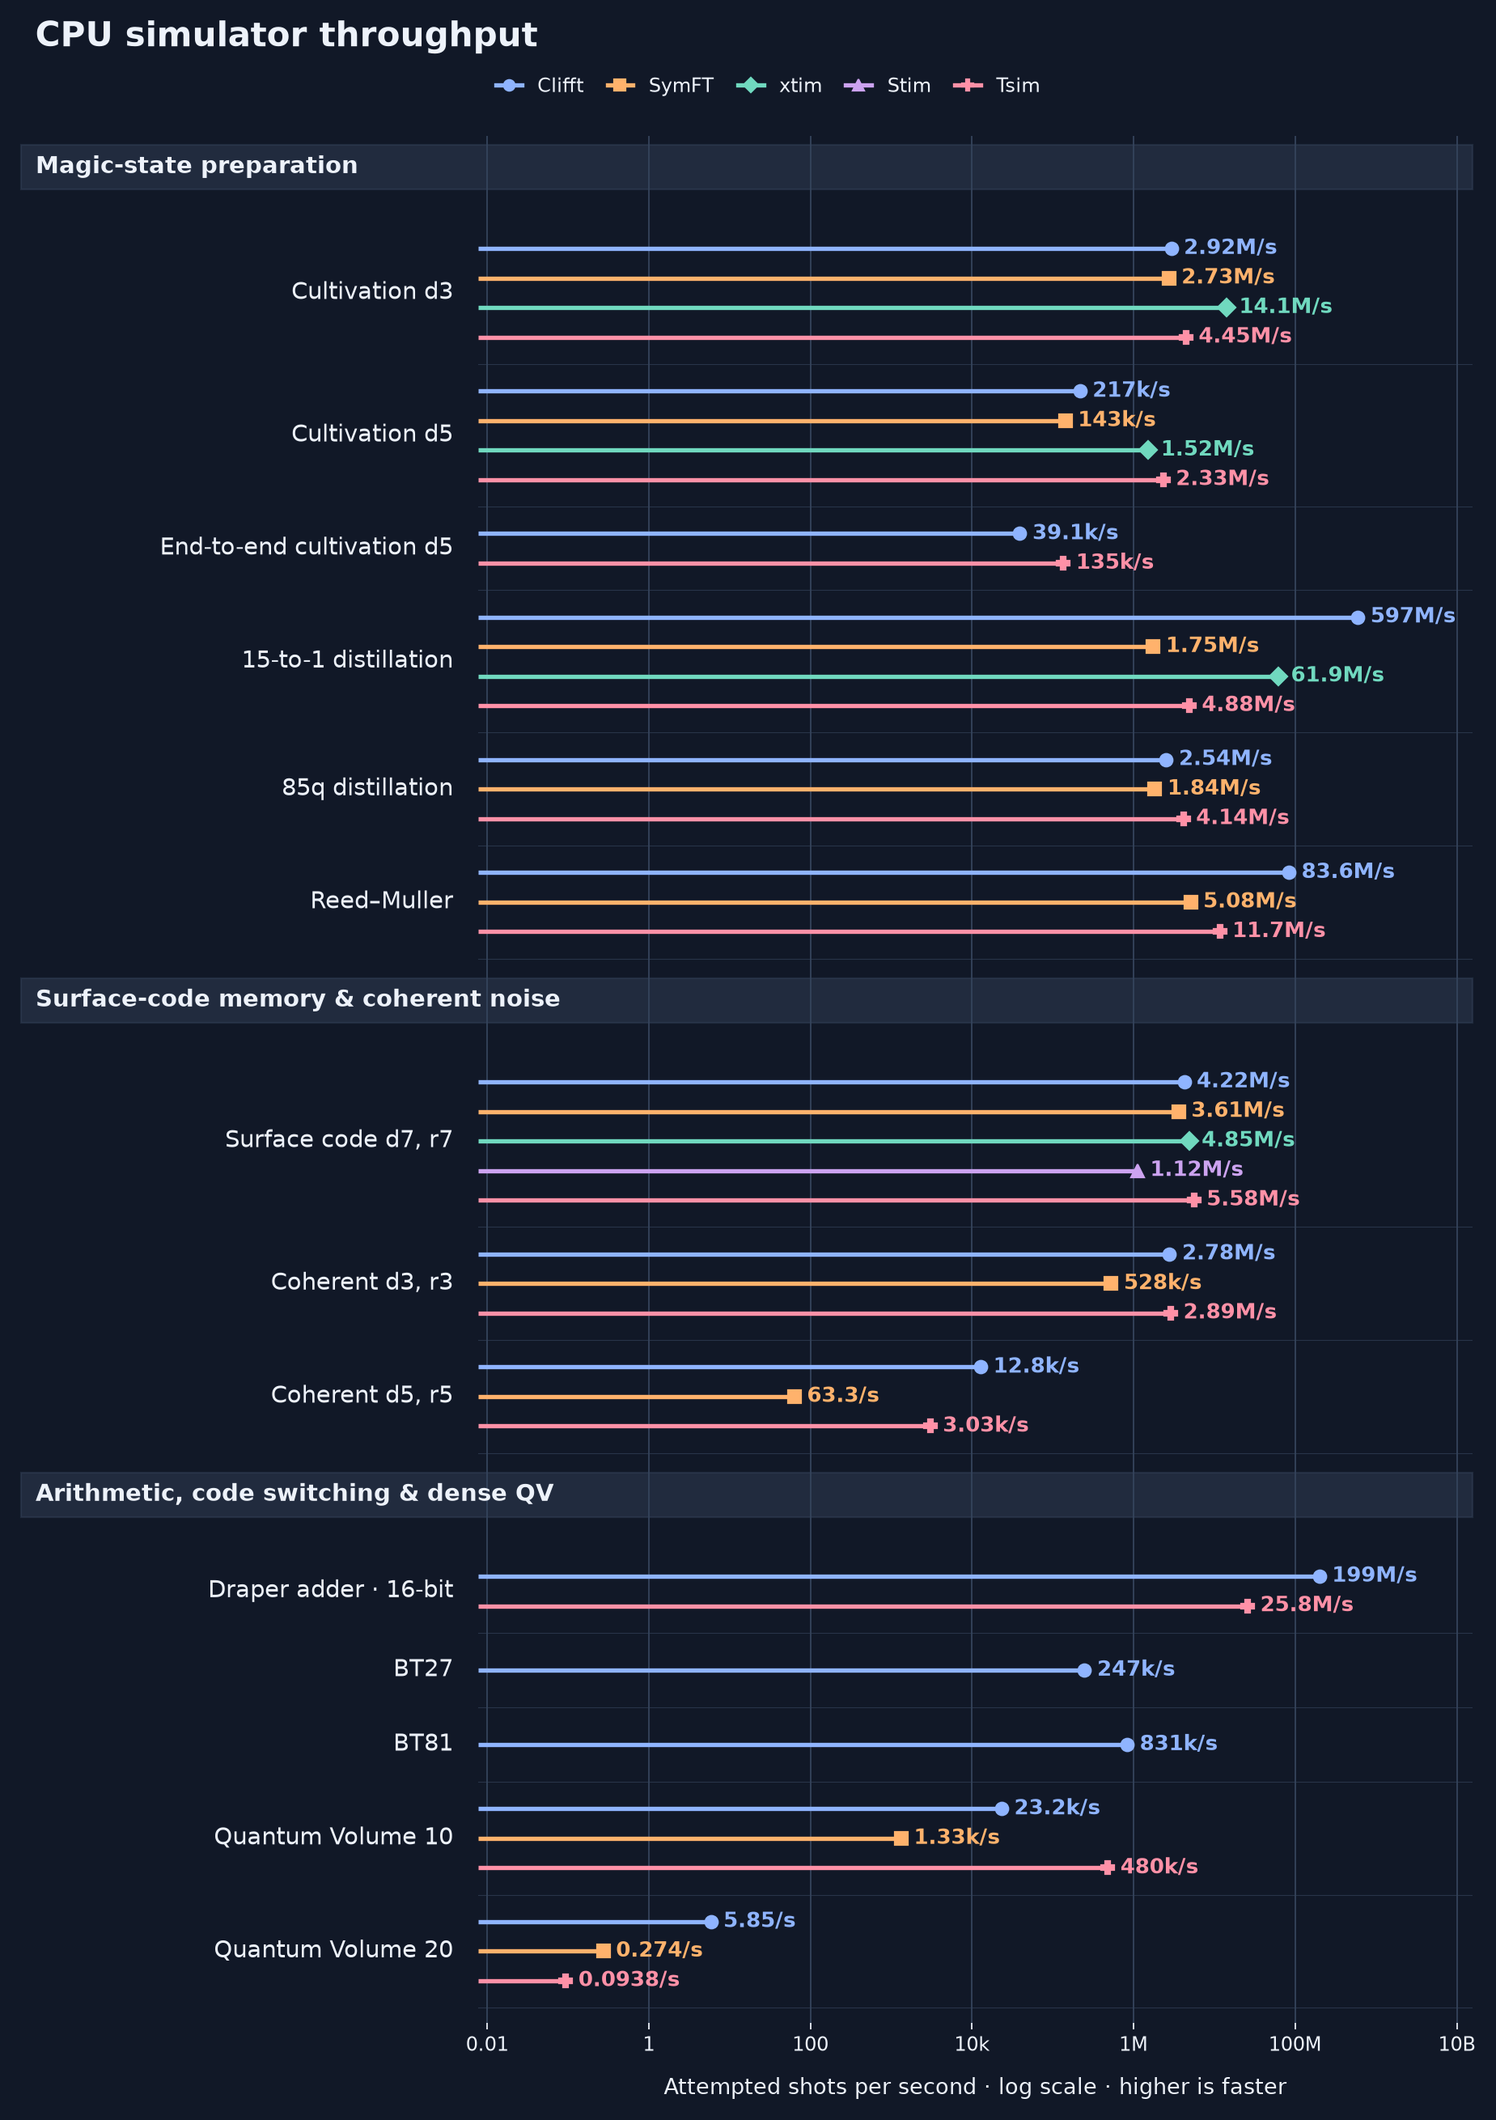
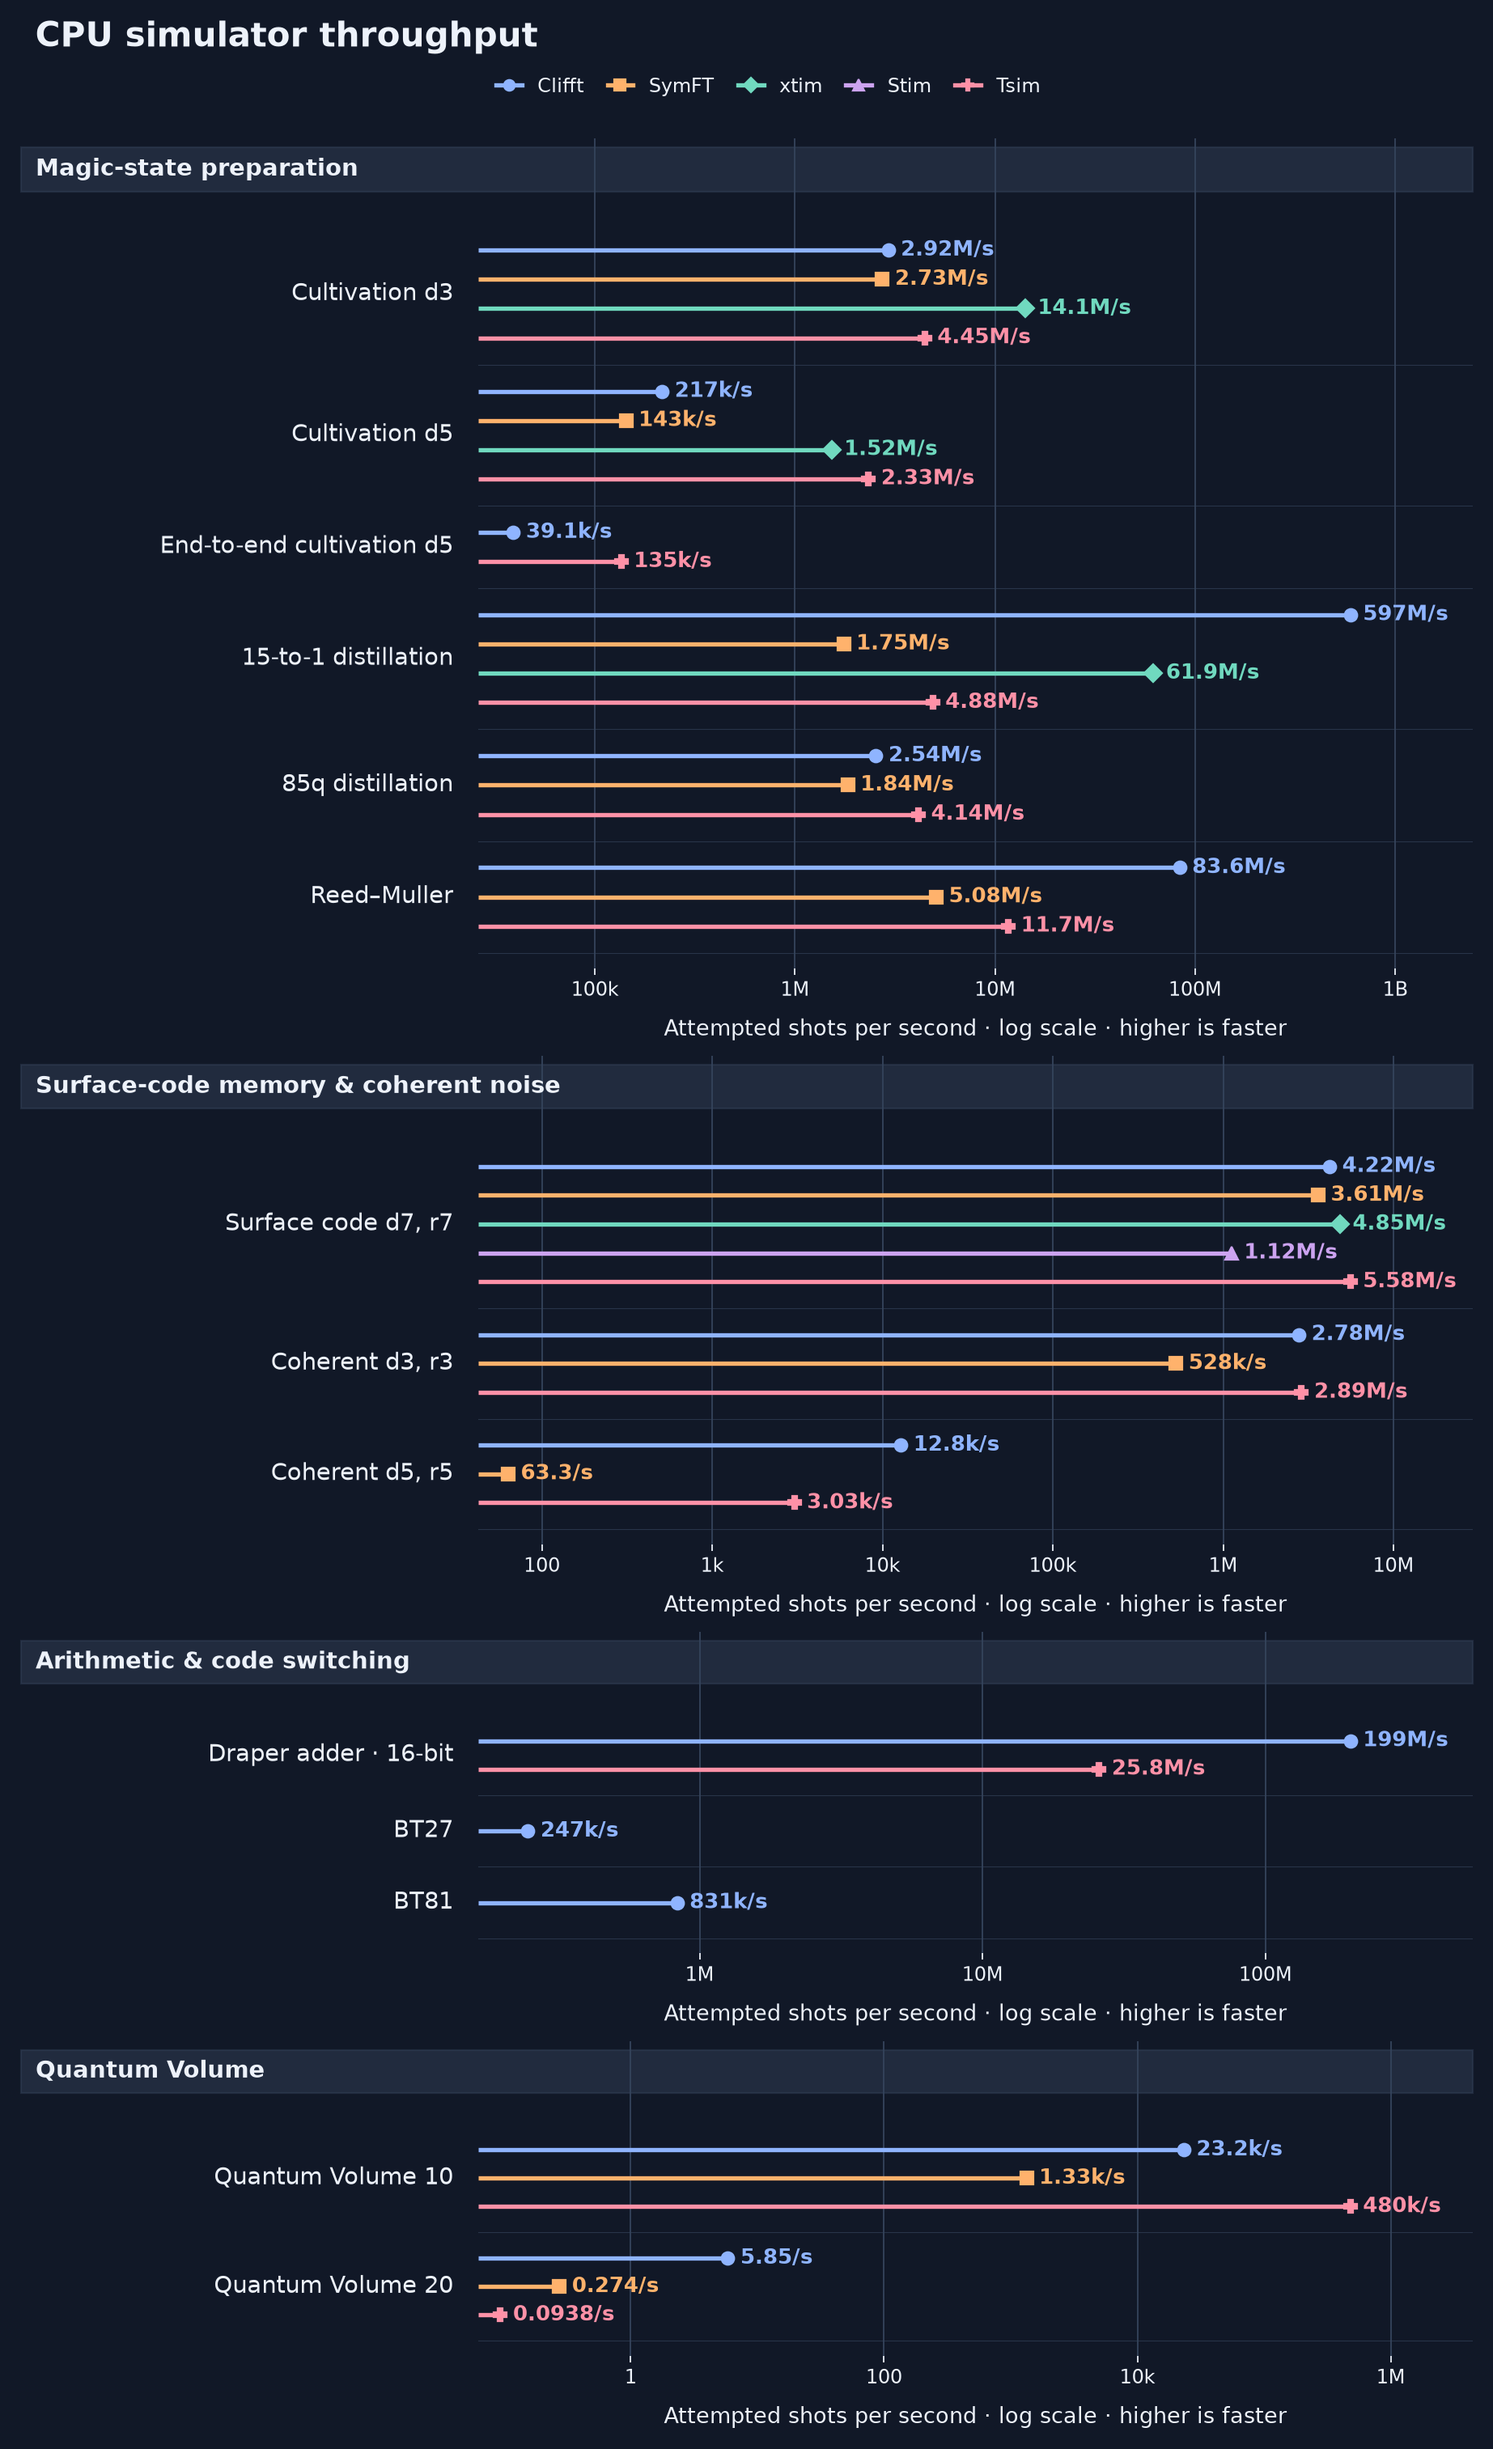
Publish approved RC2 independent-panel throughput plots
Record light and dark figures matching the reviewed local preview, update renderer provenance and hashes, and preserve the collected evidence and release-change plots.

Assisted-by: Codex (GPT-6) <noreply@openai.com>

diff --git a/results/release-clifft/0.13.0rc2-20261104-140631/README.md b/results/release-clifft/0.13.0rc2-20261104-140631/README.md
@@ -37,13 +37,16 @@ independent workers or placements. This run does not establish behavior for a
 different preparation history. No additional diagnostic repeat was performed.
 
 The figures use the renderer at
-[`48898bb3f9c1882e109197925b8cb2c5318e15c6`](https://github.com/unitaryfoundation/clifft-bench/tree/48898bb3f9c1882e109197925b8cb2c5318e15c6),
+[`e8ac68956bef58d3bbf65f5038c45c5ddfebf5b4`](https://github.com/unitaryfoundation/clifft-bench/tree/e8ac68956bef58d3bbf65f5038c45c5ddfebf5b4),
 separately from the collection revision above:
 
 - [Simulator throughput, light](report/simulator-throughput-light.png) and
   [dark](report/simulator-throughput-dark.png) show 14 circuit rows with
-  RC2 Clifft and the retained peer measurements, grouped by workload theme with
-  direct throughput labels. Bulk variants,
+  RC2 Clifft and the retained peer measurements in four independent log-scale
+  panels: magic-state preparation; surface-code memory and coherent noise;
+  arithmetic and code switching; and Quantum Volume. Each panel has its own
+  throughput ticks, with direct rate labels. Horizontal positions are comparable
+  within a panel. Bulk variants,
   selection-off controls, and the unverified d7 proxy remain in the detailed
   results rather than the main figure.
 - [Release changes, light](report/release-change-light.png) and

diff --git a/results/release-clifft/0.13.0rc2-20261104-140631/report/review.md b/results/release-clifft/0.13.0rc2-20261104-140631/report/review.md
@@ -126,6 +126,8 @@ Each source raw/CSV retains its own call sizes, selection, and samples.
 
 Rates count attempted shots and exclude compilation; lazy planning during sampling
 is included. The main figures share circuit selection and thematic ordering.
+Throughput panels have independent logarithmic axes; compare horizontal positions
+within a panel. Quantum Volume has its own panel.
 Selection-off controls, the unverified cultivation proxy, and bulk-call variants
 remain in the detailed results above. Colors and marker shapes identify simulators.
 Unsupported pairings have
